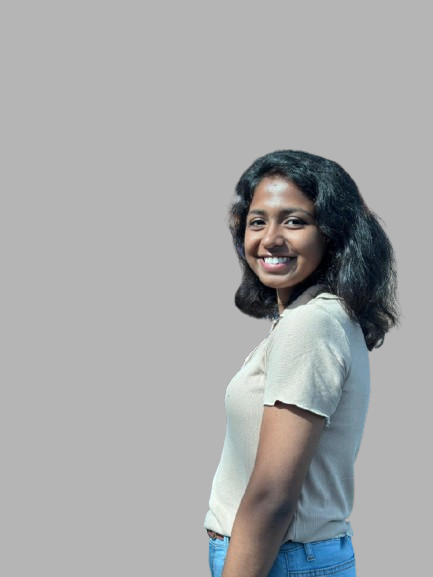
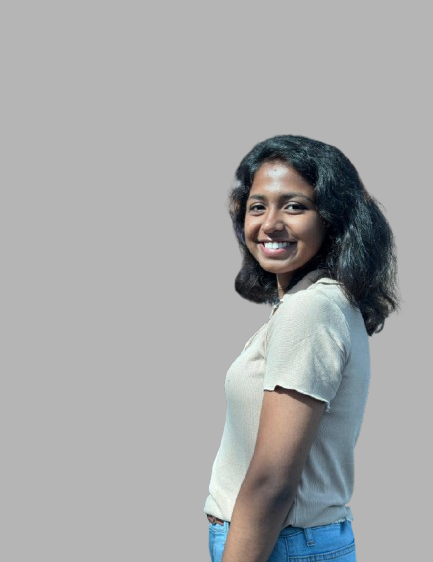
Final push 25-01-25

diff --git a/frontend/src/components/Team.js b/frontend/src/components/Team.js
@@ -1,73 +1,36 @@
 import React from "react";
 import aash from "../assets/img/aashritha.png";
-import gowri from "../assets/img/gowri.png";
+import gowri from "../assets/img/gowri.jpg";
 
 const Team = () => {
   const teamMembers = [
     {
-      name: "Gowri Shankar",
-      role: "Backend Developer",
-      image: gowri,
-      description:
-        "Our web design team will spend time with our digital marketing team.",
-    },
-    {
       name: "Aashritha",
       role: "Frontend Developer",
       image: aash,
-      description:
-        "Our web design team will spend time with our digital marketing team.",
     },
     {
-      name: "Ram Teja",
-      role: " UI/UX Specialist",
-      image: "http://deothemes.com/envato/enigma/html/img/team_2.jpg",
-      description:
-        "Our web design team will spend time with our digital marketing team.",
-    },
-    {
-      name: "Mahaveer",
-      role: "Researcher",
-      image: "http://deothemes.com/envato/enigma/html/img/team_3.jpg",
-      description:
-        "Our web design team will spend time with our digital marketing team.",
+      name: "Gowri Shankar",
+      role: "Backend Developer",
+      image: gowri,
     },
   ];
 
   return (
-    <div className="container mx-auto px-4 py-12">
+    <div className="container mx-auto px-2 py-5">
       <div className="text-center mb-12">
         <h2 className="text-3xl font-semibold">Meet Our Team</h2>
-        <p className="text-gray-600">Creative Nerds</p>
+        <p className="text-gray-600">Samsthiti</p>
       </div>
-      <div className="flex flex-wrap -mx-4">
+      <div className="flex gap-6 mx-2 justify-center">
         {teamMembers.map((member, index) => (
-          <div key={index} className="w-full sm:w-1/2 md:w-1/4 px-4 mb-8">
-            <div className="relative overflow-hidden group">
+          <div key={index} className="w-full sm:w-1/2 md:w-1/4 px-2 mb-8">
+            <div className="overflow-hidden">
               <img
                 src={member.image}
                 alt={member.name}
-                className="w-full transform transition-transform duration-200 group-hover:scale-105"
+                className="overflow-hidden"
               />
-              <div className="absolute inset-0 bg-gray-800 bg-opacity-70 opacity-0 group-hover:opacity-100 transition-opacity duration-200 flex items-center justify-center">
-                <div className="text-white text-center p-4">
-                  <p>{member.description}</p>
-                  <div className="mt-4 space-x-3">
-                    <a href="#" className="text-white hover:text-blue-500">
-                      <i className="fa fa-facebook"></i>
-                    </a>
-                    <a href="#" className="text-white hover:text-blue-400">
-                      <i className="fa fa-twitter"></i>
-                    </a>
-                    <a href="#" className="text-white hover:text-red-500">
-                      <i className="fa fa-google-plus"></i>
-                    </a>
-                    <a href="#" className="text-white hover:text-yellow-500">
-                      <i className="fa fa-envelope"></i>
-                    </a>
-                  </div>
-                </div>
-              </div>
             </div>
             <h6 className="text-lg font-semibold mt-4 text-center">
               {member.name}

diff --git a/frontend/src/components/Pricing.js b/frontend/src/components/Pricing.js
@@ -4,20 +4,20 @@ import { pricing } from "../data";
 const Pricing = () => {
   const [index, setIndex] = useState(0);
   return (
-    <section className="section-sm lg:section-lg bg-section">
+    <section className="section-sm bg-section">
       <div className="container mx-auto">
-        <div className="text-center mb-7 lg:mb-[70px]">
+        <div className="text-center lg:mb-[50px]">
           <h2
             className="h2 mb-3 lg:mb-[18px]"
             data-aos="fade-up"
-            data-aos-delay="600"
+            data-aos-delay="200"
           >
             Pick a Pricing Plan
           </h2>
           <p
             className="max-w-[398px] mx-auto"
             data-aos="fade-up"
-            data-aos-delay="700"
+            data-aos-delay="200"
           >
             Pick a pricing plan and get started your journey with us to access
             all the features{" "}
@@ -80,7 +80,7 @@ const Pricing = () => {
                       {buttonText}
                       <div
                         className={`${
-                          index == currentIndex ? "bg-orange-200" : "bg-orange"
+                          index === currentIndex ? "bg-orange-200" : "bg-orange"
                         } w-[50px] h-[50px] flex justify-center items-center absolute right-0 rounded text-white`}
                       >
                         {buttonIcon}

diff --git a/frontend/src/components/VideoStream.js b/frontend/src/components/VideoStream.js
@@ -5,7 +5,7 @@ const VideoStream = ({ userChoice, flag }) => {
   const [feedback, setFeedback] = useState("");
   const [counter, setCounter] = useState(0);
   const [state, setState] = useState("");
-  const [streamActive, setStreamActive] = useState(true); // Stream active state
+  const [streamActive, setStreamActive] = useState(true);
 
   const fetchFeedback = async () => {
     try {
@@ -54,8 +54,8 @@ const VideoStream = ({ userChoice, flag }) => {
   const handleStopStream = async () => {
     const confirmStop = window.confirm("Do you want to stop training?");
     if (confirmStop) {
-      await fetch("http://localhost:5000/cancel_feed"); // Backend API to stop stream
-      setStreamActive(false); // Stop frontend stream
+      await fetch("http://localhost:5000/cancel_feed");
+      setStreamActive(false);
     }
   };
 
@@ -67,7 +67,7 @@ const VideoStream = ({ userChoice, flag }) => {
             <img
               src={`http://localhost:5000/video_feed?id=${userChoice}&flag=${flag}`}
               alt="Live Stream"
-              className={`w-[900px] h-[500px] object-cover border-4 border-blue-500 rounded-lg shadow-lg ${flag==="gym"?'mt-40':""}`}
+              className={` object-cover border-4 border-blue-500 rounded-lg shadow-lg ${flag==="gym"?'mt-40':""}`}
             />
           ) : (
             <div>Stream stopped</div>

diff --git a/frontend/src/components/About.js b/frontend/src/components/About.js
@@ -11,14 +11,14 @@ const About = () => {
               <div
                 className="title text-left font-semibold text-6xl"
                 data-aos="fade-left"
-                data-aos-delay="500"
+                data-aos-delay="400"
               >
                 About Us
               </div>
               <h2
                 className="italic text-xl mt-4 text-paragraph"
                 data-aos="fade-left"
-                data-aos-delay="500"
+                data-aos-delay="400"
               >
                 ~ We Are Leading in AI <br /> Based Training
               </h2>
@@ -49,7 +49,7 @@ const About = () => {
                 alt="About Us"
                 className="bouncing-image"
                 data-aos="fade-down"
-                data-aos-delay="500"
+                data-aos-delay="400"
               />
               <div className="overlay-box absolute inset-0 flex items-center justify-center bg-opacity-50"></div>
             </div>

diff --git a/frontend/src/components/Header.js b/frontend/src/components/Header.js
@@ -18,11 +18,11 @@ const Header = () => {
       <header
         className={`${
           header ? "top-4" : "top-9"
-        } fixed bg-white w-full max-w-[90vw] lg:max-w-[1170px] mx-auto rounded-md h-[90px] shadow-primary px-4 lg:px-8 z-20 transition-all duration-500 flex items-center justify-between`}
+        } fixed bg-white w-full max-w-[90vw] lg:max-w-[1170px] mx-auto rounded-md h-[90px] shadow-primary px-4 lg:px-8 z-20 transition-all duration-500 flex items-center justify-between overflow-hidden`}
       >
         <div className="flex items-center">
           <Link to="/">
-            <img src={Logo} alt="Logo" className="h-[200px] w-[200px]" />
+            <img src={Logo} alt="Logo" className="h-[90px]" />
           </Link>
           <div className="hidden lg:flex">
             <Nav />

diff --git a/frontend/src/components/Detail.js b/frontend/src/components/Detail.js
@@ -27,7 +27,7 @@ const Detail = ({exerciseDetail}) => {
   ];
 
   return (
-    <Stack gap="60px" sx={{flexDirection: {lg: 'row'}, p:'20px', alignItems:'center'}}>
+    <Stack gap="60px" sx={{flexDirection: {lg: 'row'}, p:'20px', marginTop:'25px', alignItems:'center'}}>
       <img src={gifUrl} alt={name} loading='lazy' className='detail-image' />
       <Stack sx={{gap: {lg: '35px', xs: '20px'}}}>
         <Typography variant='h3' fontWeight="bold" textTransform="capitalize">

diff --git a/frontend/src/pages/AsanaDesc.js b/frontend/src/pages/AsanaDesc.js
@@ -34,7 +34,7 @@ const YogaAsanaDescription = () => {
 
   return (
     <>
-      <div className="min-h-screen w-full flex items-start bg-gray-100 p-6 relative mt-40">
+      <div className="w-full flex items-start bg-gray-100 p-6 relative mt-40">
         <div
           onClick={handleGoBack}
           className="absolute top-6 left-6 cursor-pointer flex items-center text-lg font-medium text-gray-700 hover:text-gray-900 transition duration-300 hover:text-orange-200"

diff --git a/frontend/src/pages/TrainingPage.js b/frontend/src/pages/TrainingPage.js
@@ -32,7 +32,7 @@ const Training = () => {
       justifyContent="space-around"
       sx={{
         gap: { sm: "122px", xs: "40px" },
-        mt: { sm: "32px", xs: "20px" },
+        mt: { sm: "32px", xs: "20px", lg:'40px' },
         justifyContent: "none",
       }}
       px="20px"

diff --git a/Backend/app.py b/Backend/app.py
@@ -17,15 +17,13 @@ def video_feed():
     global feed
     user_choice=request.args.get('id')
     flag=request.args.get('flag')
-    print(user_choice)
-    print(flag)
     if feed is None:
         feed = cv2.VideoCapture(0)
-    if flag=='gym':
-        response = Response(GymExerciseRecognizer().generate_frames(feed,user_choice), mimetype='multipart/x-mixed-replace; boundary=frame')
-    else:
+    if flag=='yoga':
         yoga = YogaExerciseRecognizer(user_choice)
         response = Response(yoga.generate_frames(feed), mimetype='multipart/x-mixed-replace; boundary=frame')
+    else:
+        response = Response(GymExerciseRecognizer().generate_frames(feed,user_choice), mimetype='multipart/x-mixed-replace; boundary=frame')
     return response
 
 @app.route('/cancel_feed')
